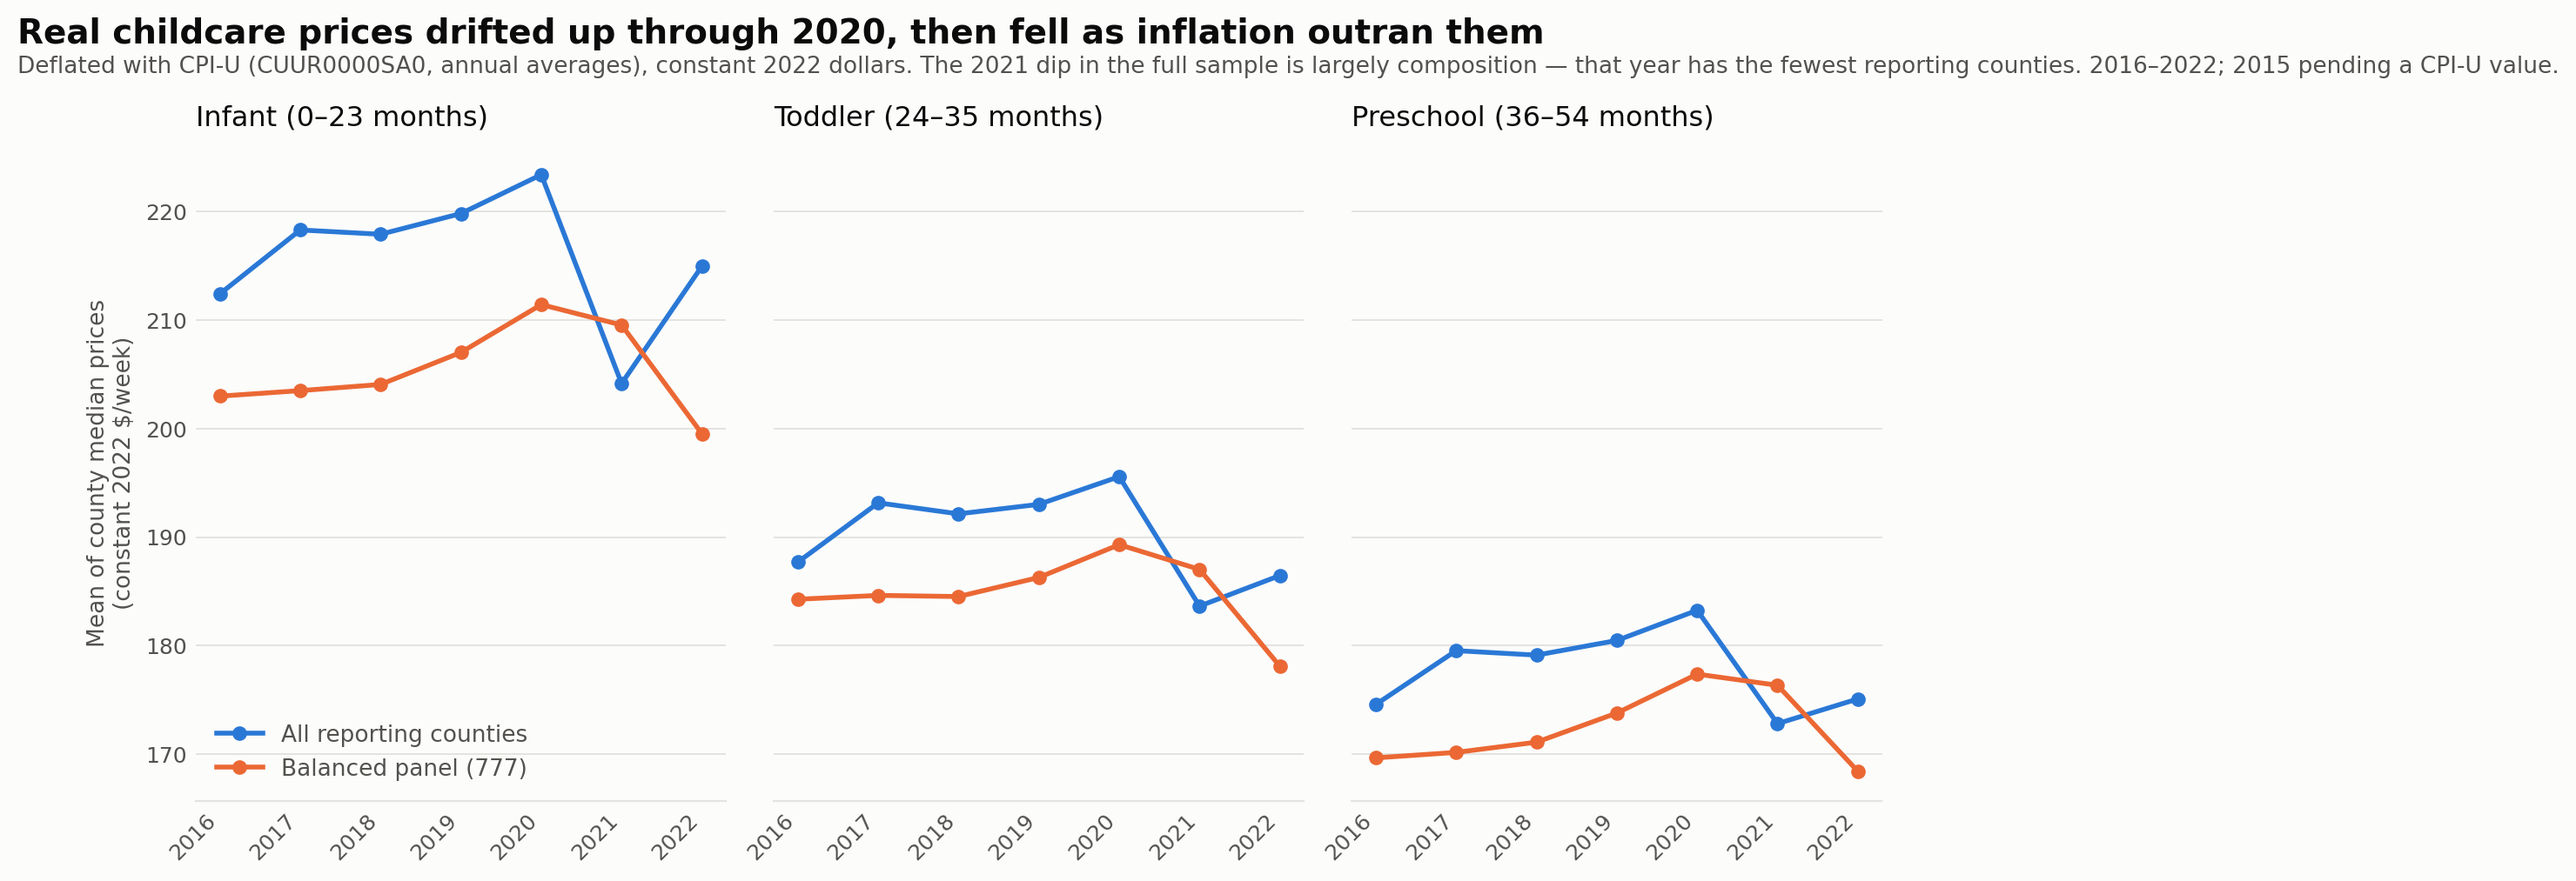
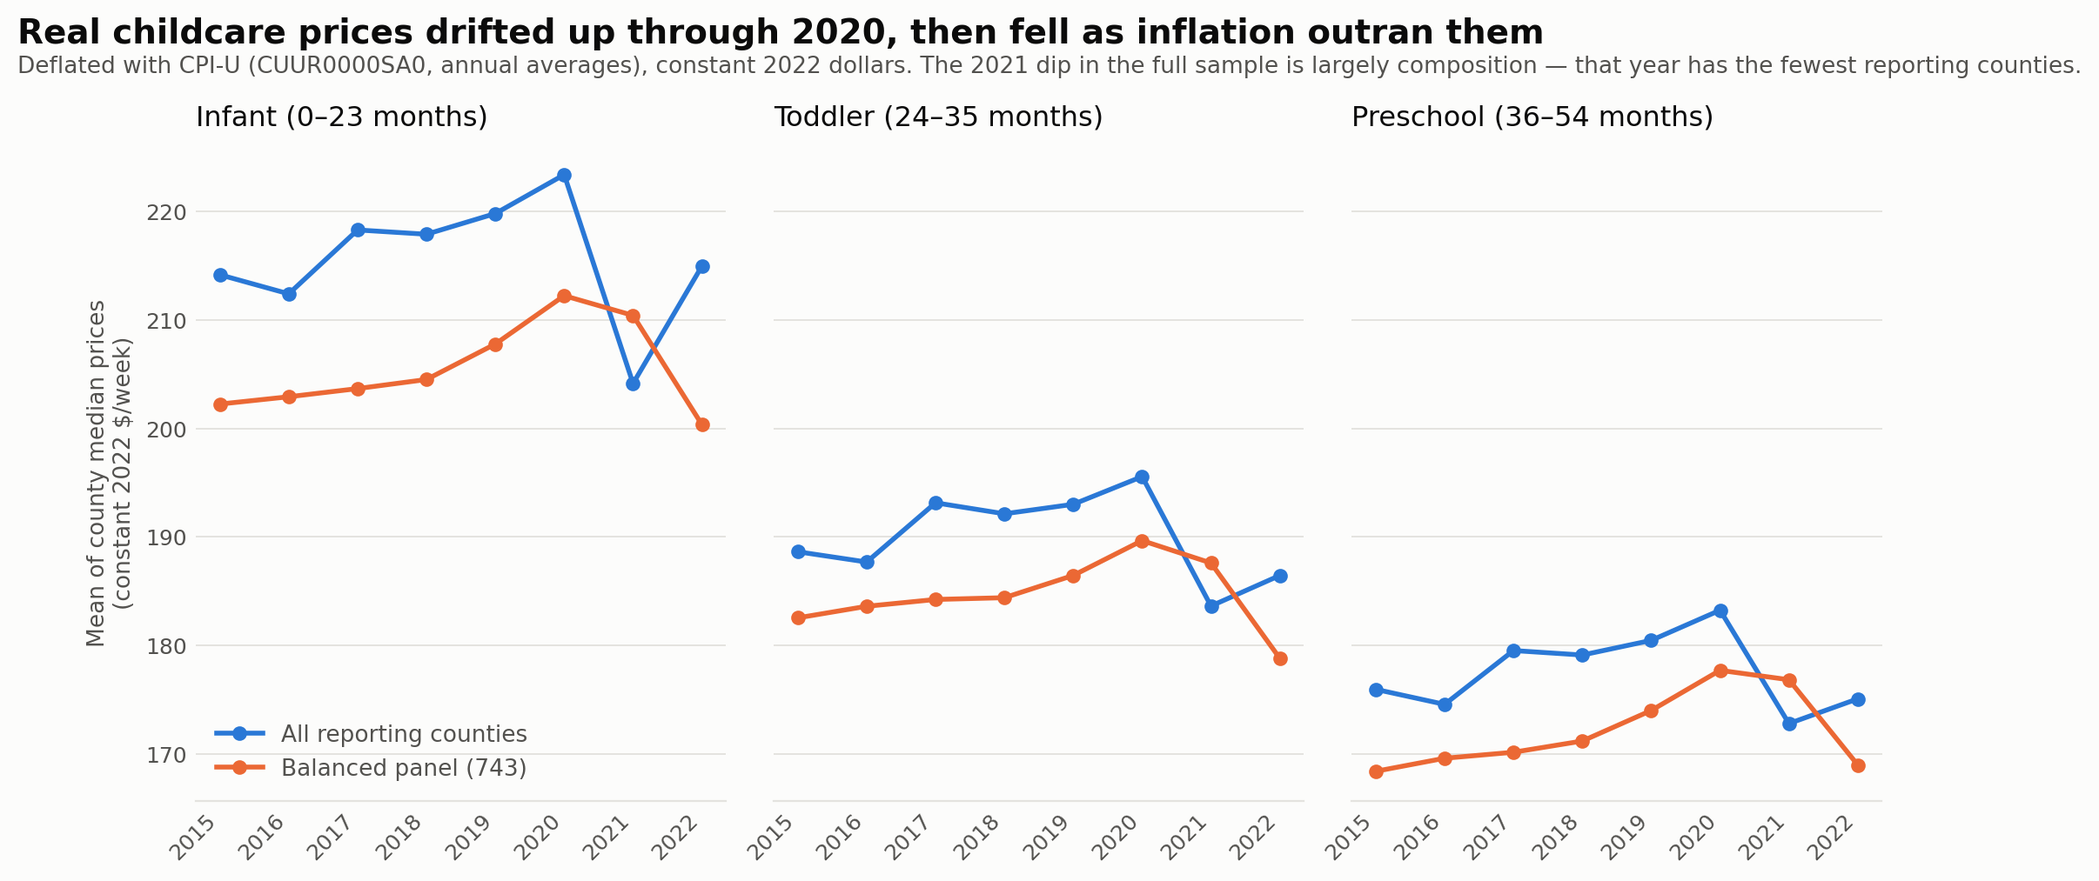
PS4 s3: add 2015 CPI-U, regenerate trends over full 2015-2022 range
2015 annual average computes to 237.017, matching the published BLS value;
added to the assertion set. Balanced panel is now 743 counties (8 years).

diff --git a/src/ps4_figures.py b/src/ps4_figures.py
@@ -180,8 +180,7 @@ def trends(df: pd.DataFrame, path=None):
     fig.text(0.043, 0.965,
              f"Deflated with CPI-U (CUUR0000SA0, annual averages), constant "
              f"{BASE_YEAR} dollars. The 2021 dip in the full sample is largely "
-             "composition — that year has the fewest reporting counties. "
-             f"{min(years)}–{max(years)}; 2015 pending a CPI-U value.",
+             "composition — that year has the fewest reporting counties.",
              ha="left", fontsize=9.5, color=INK_MUTED)
 
     path = path or FIGURES / "ps4_trend_real_by_agegroup.png"

diff --git a/src/deflate.py b/src/deflate.py
@@ -24,7 +24,7 @@ MONTHS = ["Jan", "Feb", "Mar", "Apr", "May", "Jun",
 
 # BLS annual averages, for the assertion in verify(). Independent of the
 # arithmetic below -- if a paste is mangled, the check fails loudly.
-KNOWN_ANNUAL = {2016: 240.007, 2019: 255.657, 2022: 292.655}
+KNOWN_ANNUAL = {2015: 237.017, 2016: 240.007, 2019: 255.657, 2022: 292.655}
 
 
 def load_cpi_monthly(path=CPI_MONTHLY) -> pd.DataFrame:
